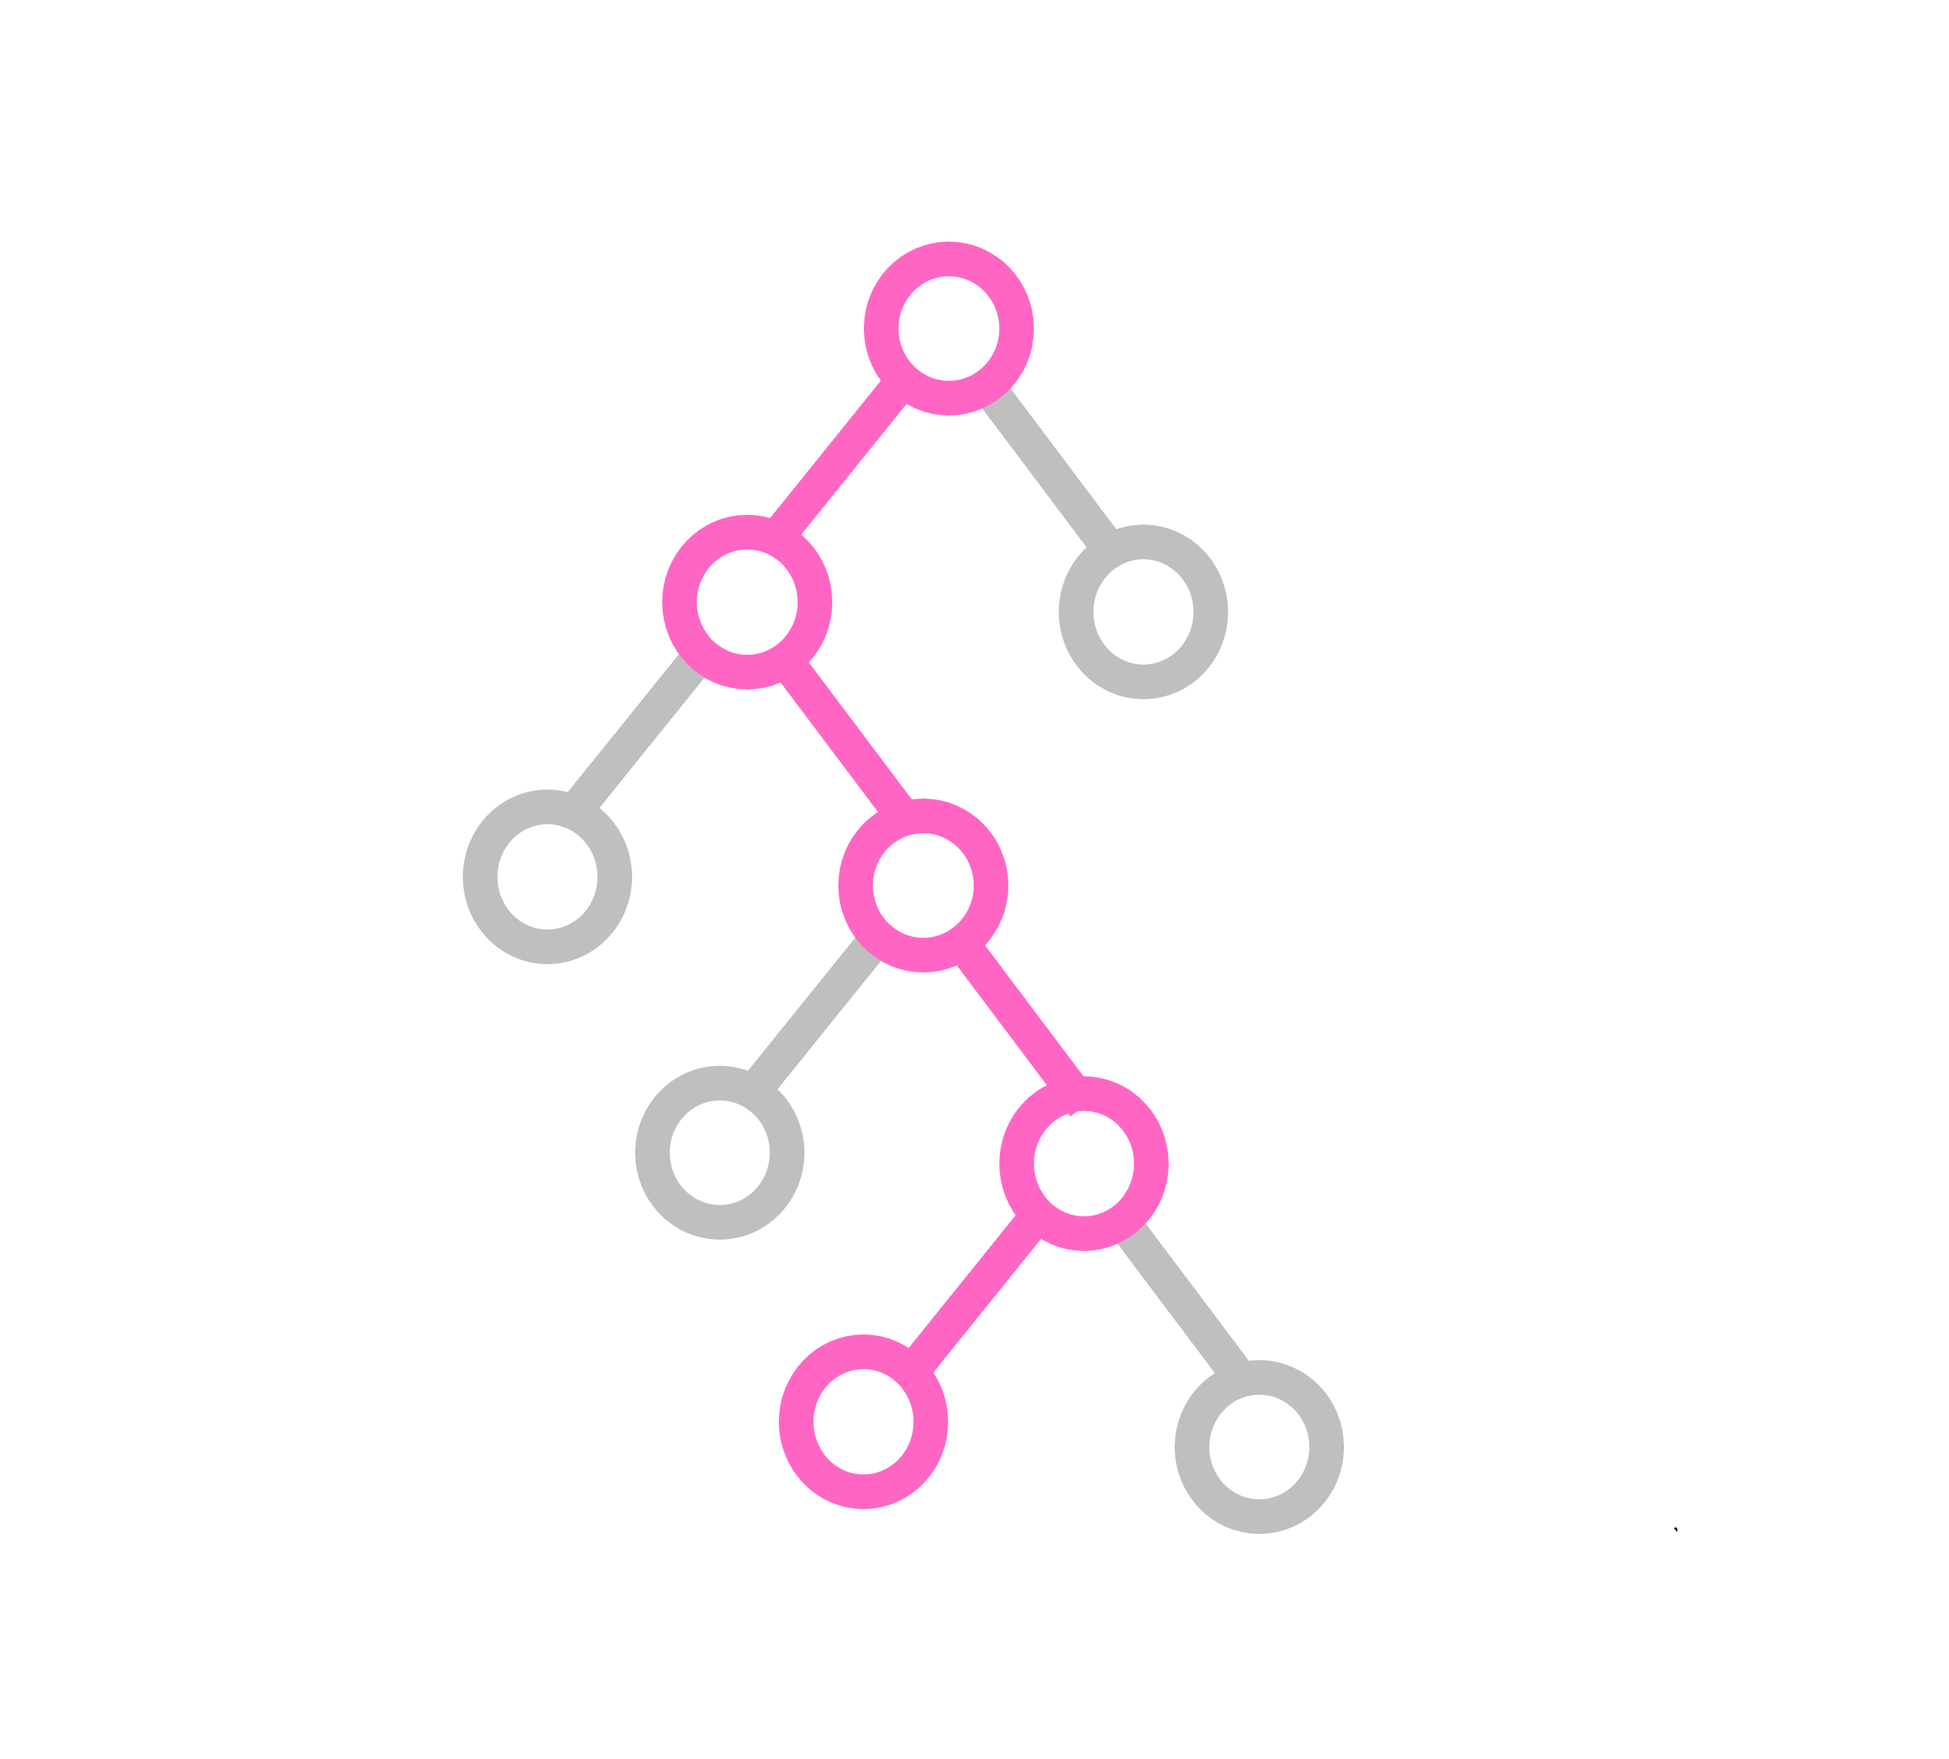
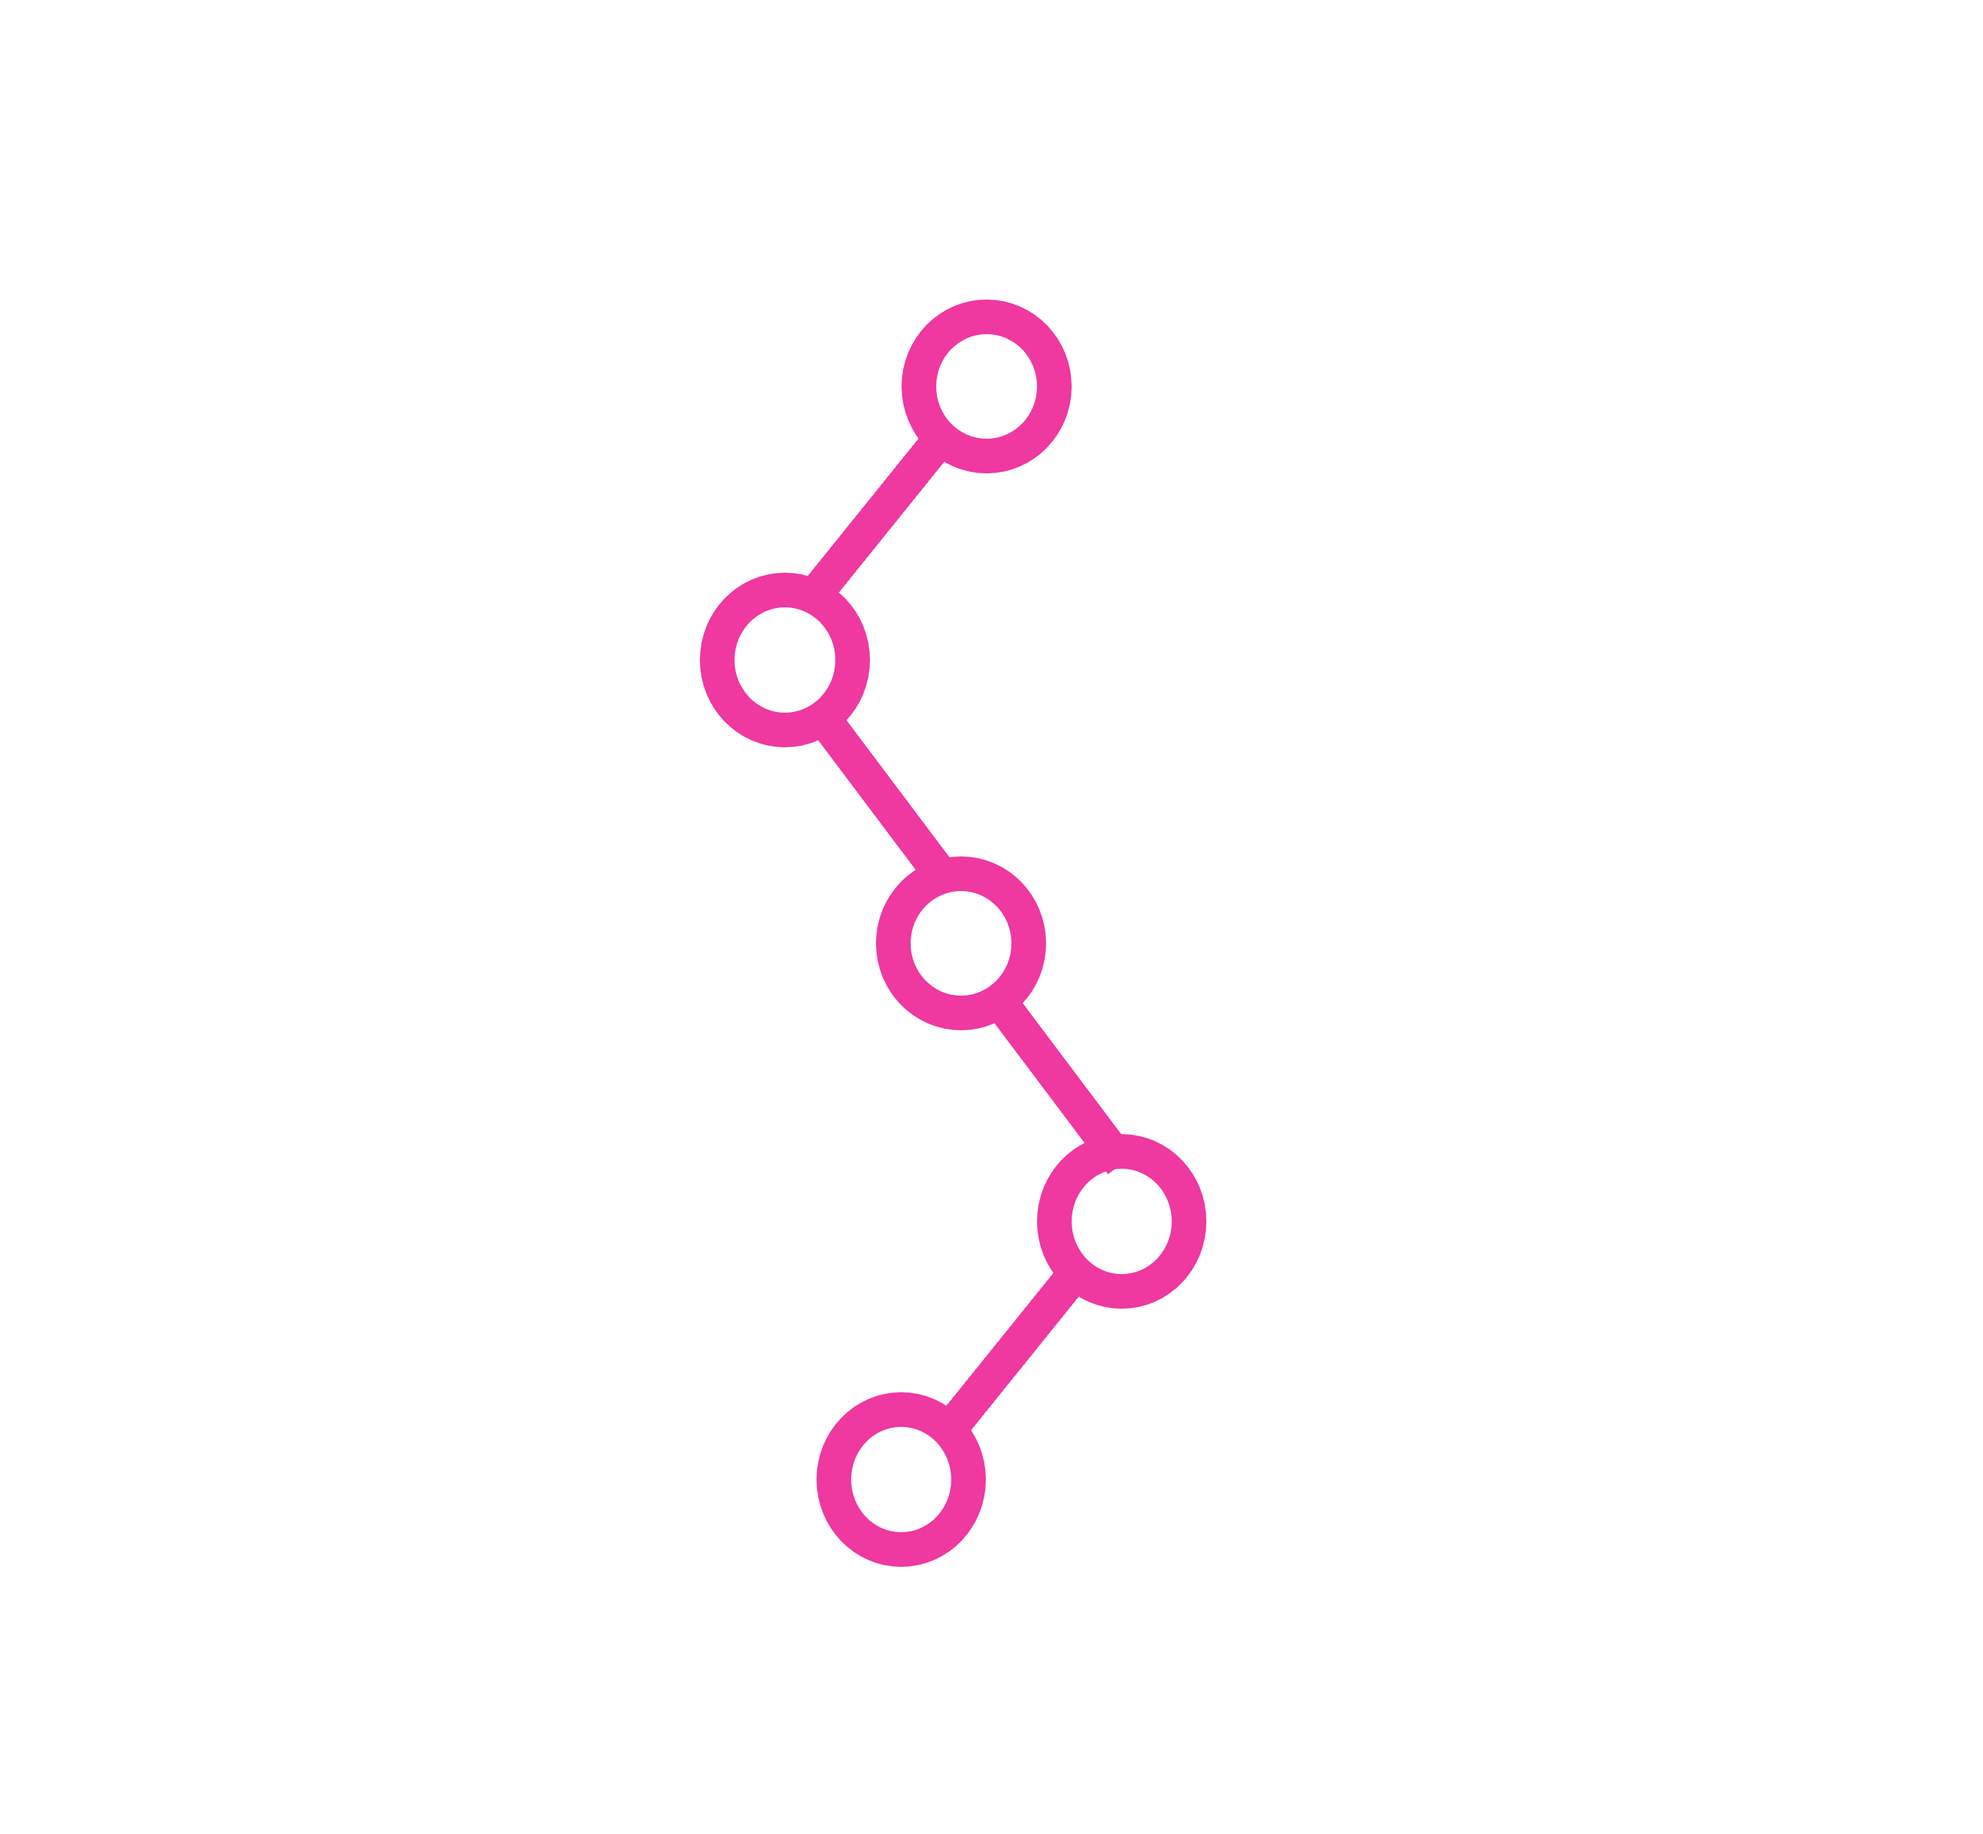
imagenes

Changed region(s): [[0.2162, 0.1249, 0.7104, 0.8746]]

diff --git a/index.html b/index.html
@@ -81,7 +81,16 @@
         }
 
         header h1 {
+            height: 45px;
             font-size: var(--fuente-logo);
+            display: flex;
+            align-items: center;
+        }
+
+        header img {
+            width: 100px;
+            height: auto;
+            margin-left: var(--espaciado-mediano);
         }
 
         header h1 a {
@@ -91,7 +100,7 @@
         }
 
         header h1 a:hover {
-            color: var(--color-cuaternario);
+            opacity: 0.8;
             transition: ease 0.3s;
         }
 
@@ -601,7 +610,11 @@
     <!-- Encabezado -->
     <header>
         <!-- Logo y Nombre de la Plataforma -->
-        <h1><a href="#bienvenida">Code Cuties</a></h1>
+        <h1>
+            <a href="#bienvenida">
+                <img src="logoWhite.png" alt="Logo Code Cuties" />
+            </a>
+        </h1>
         <!-- barra de navegacion -->
         <nav>
             <ul>
@@ -716,9 +729,7 @@
             </div>
             <div class="image" id="why-images">
                 <!-- Imagen o Gráfico Adicional -->
-                <div id="ruta-ventaja-img">
-                    <!-- arbol binario con html y css -->
-                </div>
+                <img src="grafo.png" alt="Ventaja Ruta" id="ruta-ventaja-img" style="display: none;" />
                 <img src="logoInterr.png" alt="Ventaja Profesoras" id="profesoras-ventaja-img" style="display: none;" />
                 <img src="comunidad.png" alt="Ventaja Comunidad" id="comunidad-ventaja-img" style="display: none;" />
             </div>
